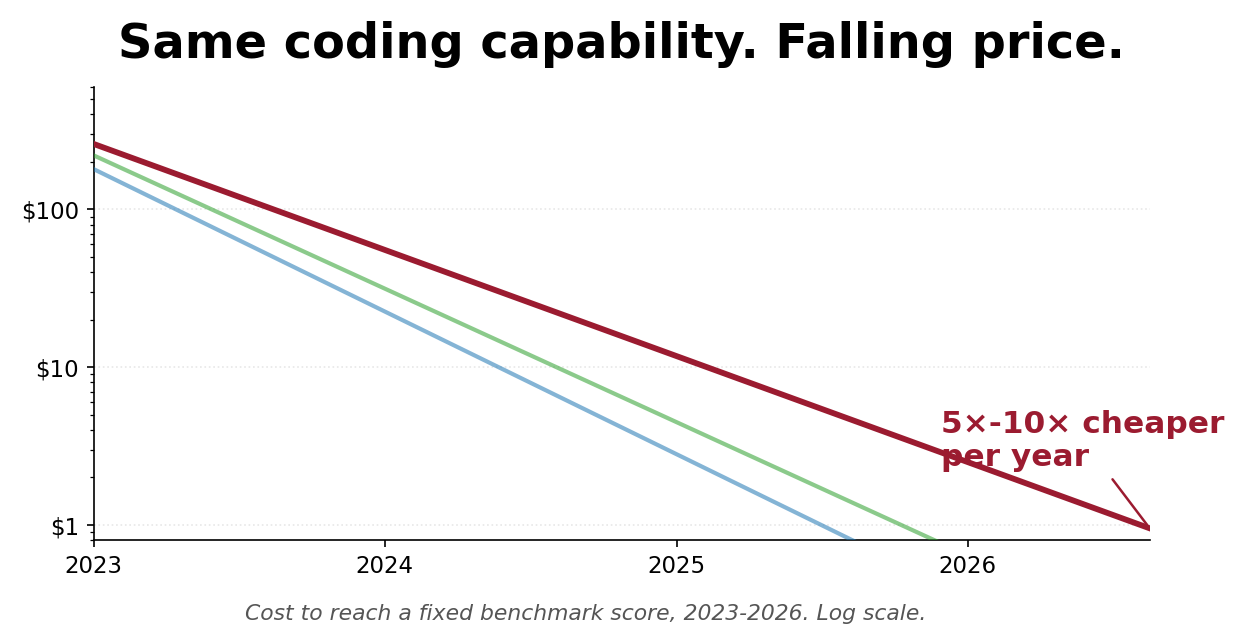
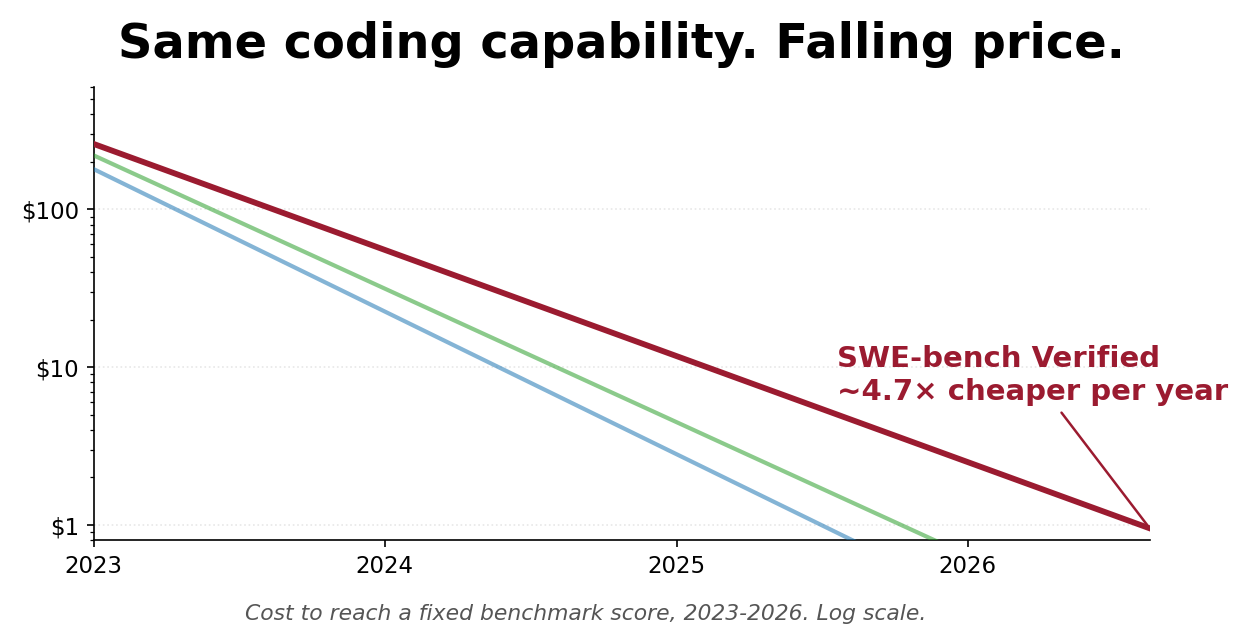
Proofreading fixes: chart label misattribution, em-dash escape
Cost-collapse hero chart was making a claim its own data contradicts. The
"5x-10x cheaper per year" label had a leader line anchored to the SWE-bench
series endpoint -- and SWE-bench is the deliberately emphasized line (2.8px,
full opacity, others at 0.55). But SWE-bench's rate in the data is 4.7x/yr,
which falls BELOW the 5x-10x band the label stated. That band is MIT's
overall figure across benchmarks; the article body correctly distinguishes
the two ("the SWE-bench point estimate is ~4.7x per year" vs "the overall
5x-10x band"), but the chart conflated them.

Same error class caught mid-session and only half-fixed then: the number was
corrected from "~10x" to "5x-10x" but the arrow kept pointing at the one
series that contradicts it. Now labels the emphasized line by name with its
own rate. Also resolves the hyphen-vs-en-dash inconsistency, since that text
no longer exists (chart used "5x-10x", article body uses "5x-10x" with an
en dash).

index.js: the Machine Learning card had a literal — escape rather than
an em-dash character. It rendered correctly -- JS string literals interpret
the escape -- but every other em dash in the file is a literal character.

Verified: label clears the curve, no literal escapes render, card text
correct.

diff --git a/src/pages/index.js b/src/pages/index.js
@@ -278,7 +278,7 @@ const IndexPage = () => {
       image: getImage(data.aiSoftwareFeature.childImageSharp.gatsbyImageData),
       alt: "Custom and fine-tuned machine learning models",
       description:
-        "Custom classifiers, fine-tuned models, and <mark>calibrated confidence</mark> that tells you which decisions to trust and which to escalate.  We find the cheapest model that clears your bar, prove that it clears it, and run it in production on AWS\u2014training, serving, and evaluation included.",
+        "Custom classifiers, fine-tuned models, and <mark>calibrated confidence</mark> that tells you which decisions to trust and which to escalate.  We find the cheapest model that clears your bar, prove that it clears it, and run it in production on AWS—training, serving, and evaluation included.",
     },
   ]
 

diff --git a/scripts/generate-ai-coding-cost-collapse-2026-hero.py b/scripts/generate-ai-coding-cost-collapse-2026-hero.py
@@ -54,12 +54,18 @@ for label, start_cost, annual_decay, color in SERIES:
 swe_start = series_at(START, SERIES[2][1], SERIES[2][2])
 swe_end = series_at(END, SERIES[2][1], SERIES[2][2])
 
+# The emphasized line is SWE-bench, so the label has to state SWE-bench's own
+# rate (4.7x/yr). An earlier version pointed this same leader line at the
+# SWE-bench endpoint while labelling it with MIT's overall 5x-10x band -- a
+# band SWE-bench actually falls BELOW. The general band belongs in the body
+# copy, not on an arrow aimed at the one series that contradicts it.
 ax.annotate(
-    "5×-10× cheaper\nper year",
+    "SWE-bench Verified\n~4.7× cheaper per year",
     xy=(end_num, swe_end),
-    xytext=(-100, 30),
+    xytext=(-150, 62),
     textcoords="offset points",
-    fontsize=15,
+    fontsize=14,
+    ha="left",
     color=SERIES[2][3],
     fontweight="bold",
     arrowprops=dict(arrowstyle="-", color="#9B1B30", lw=1.2),
